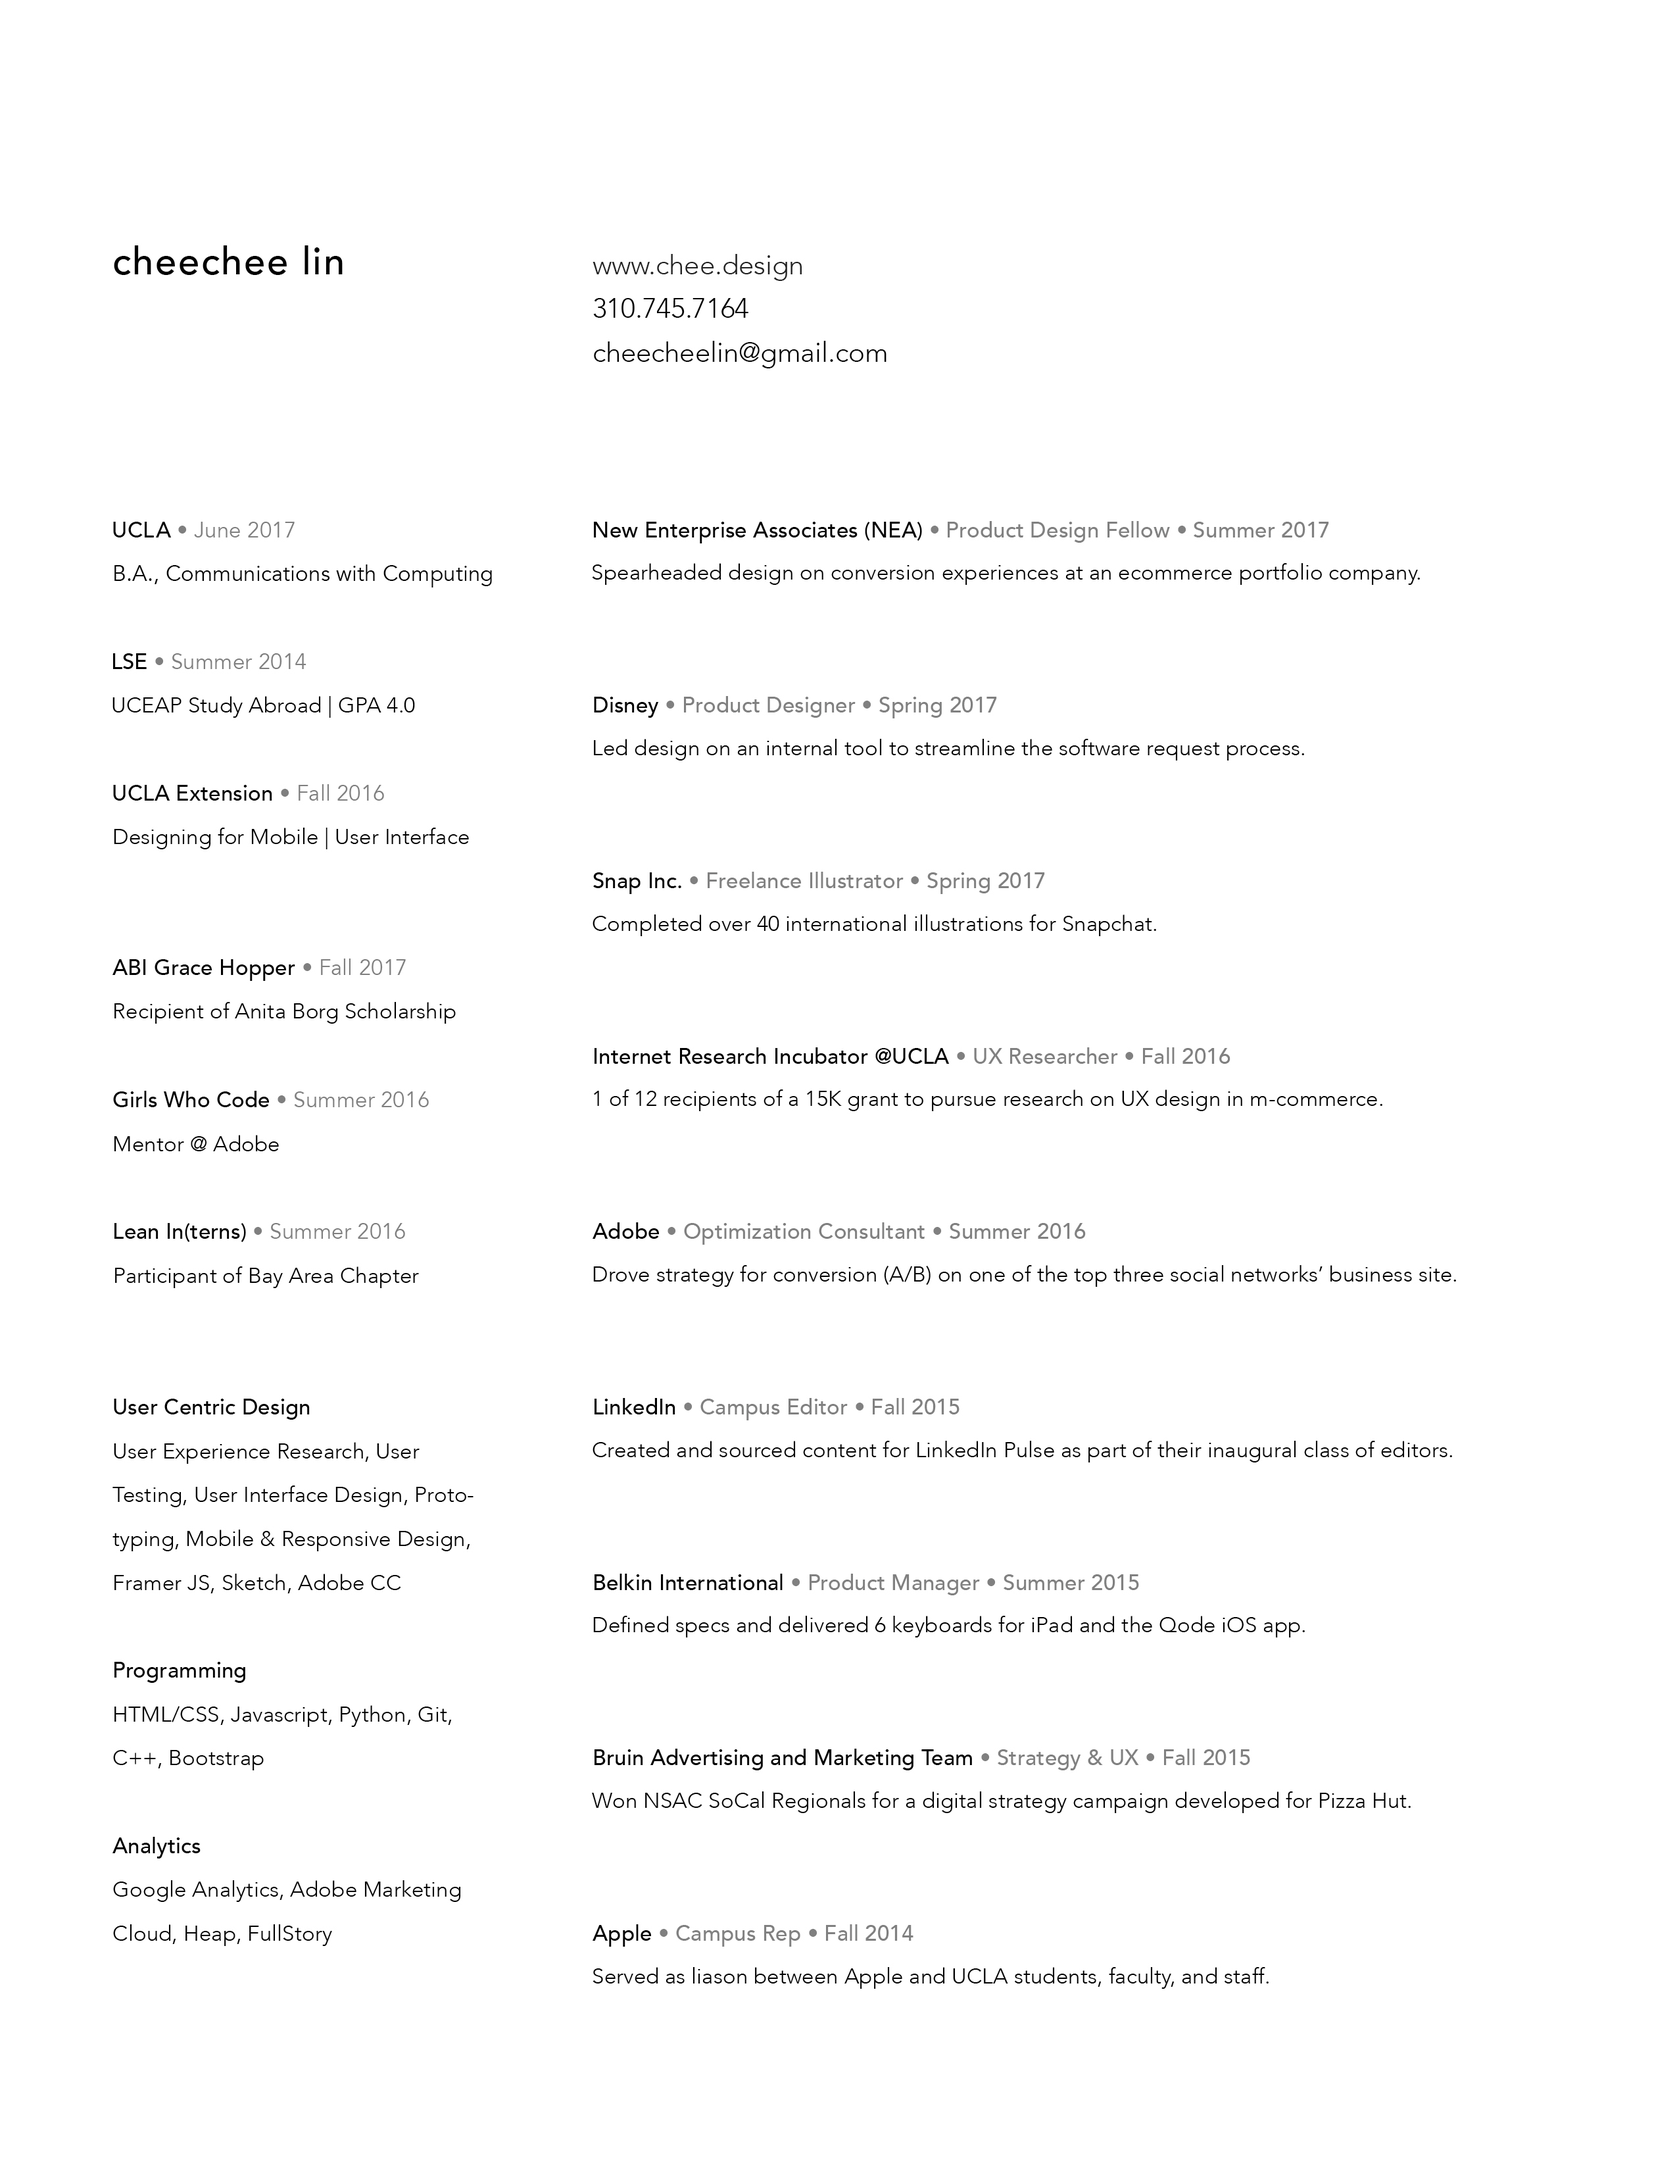
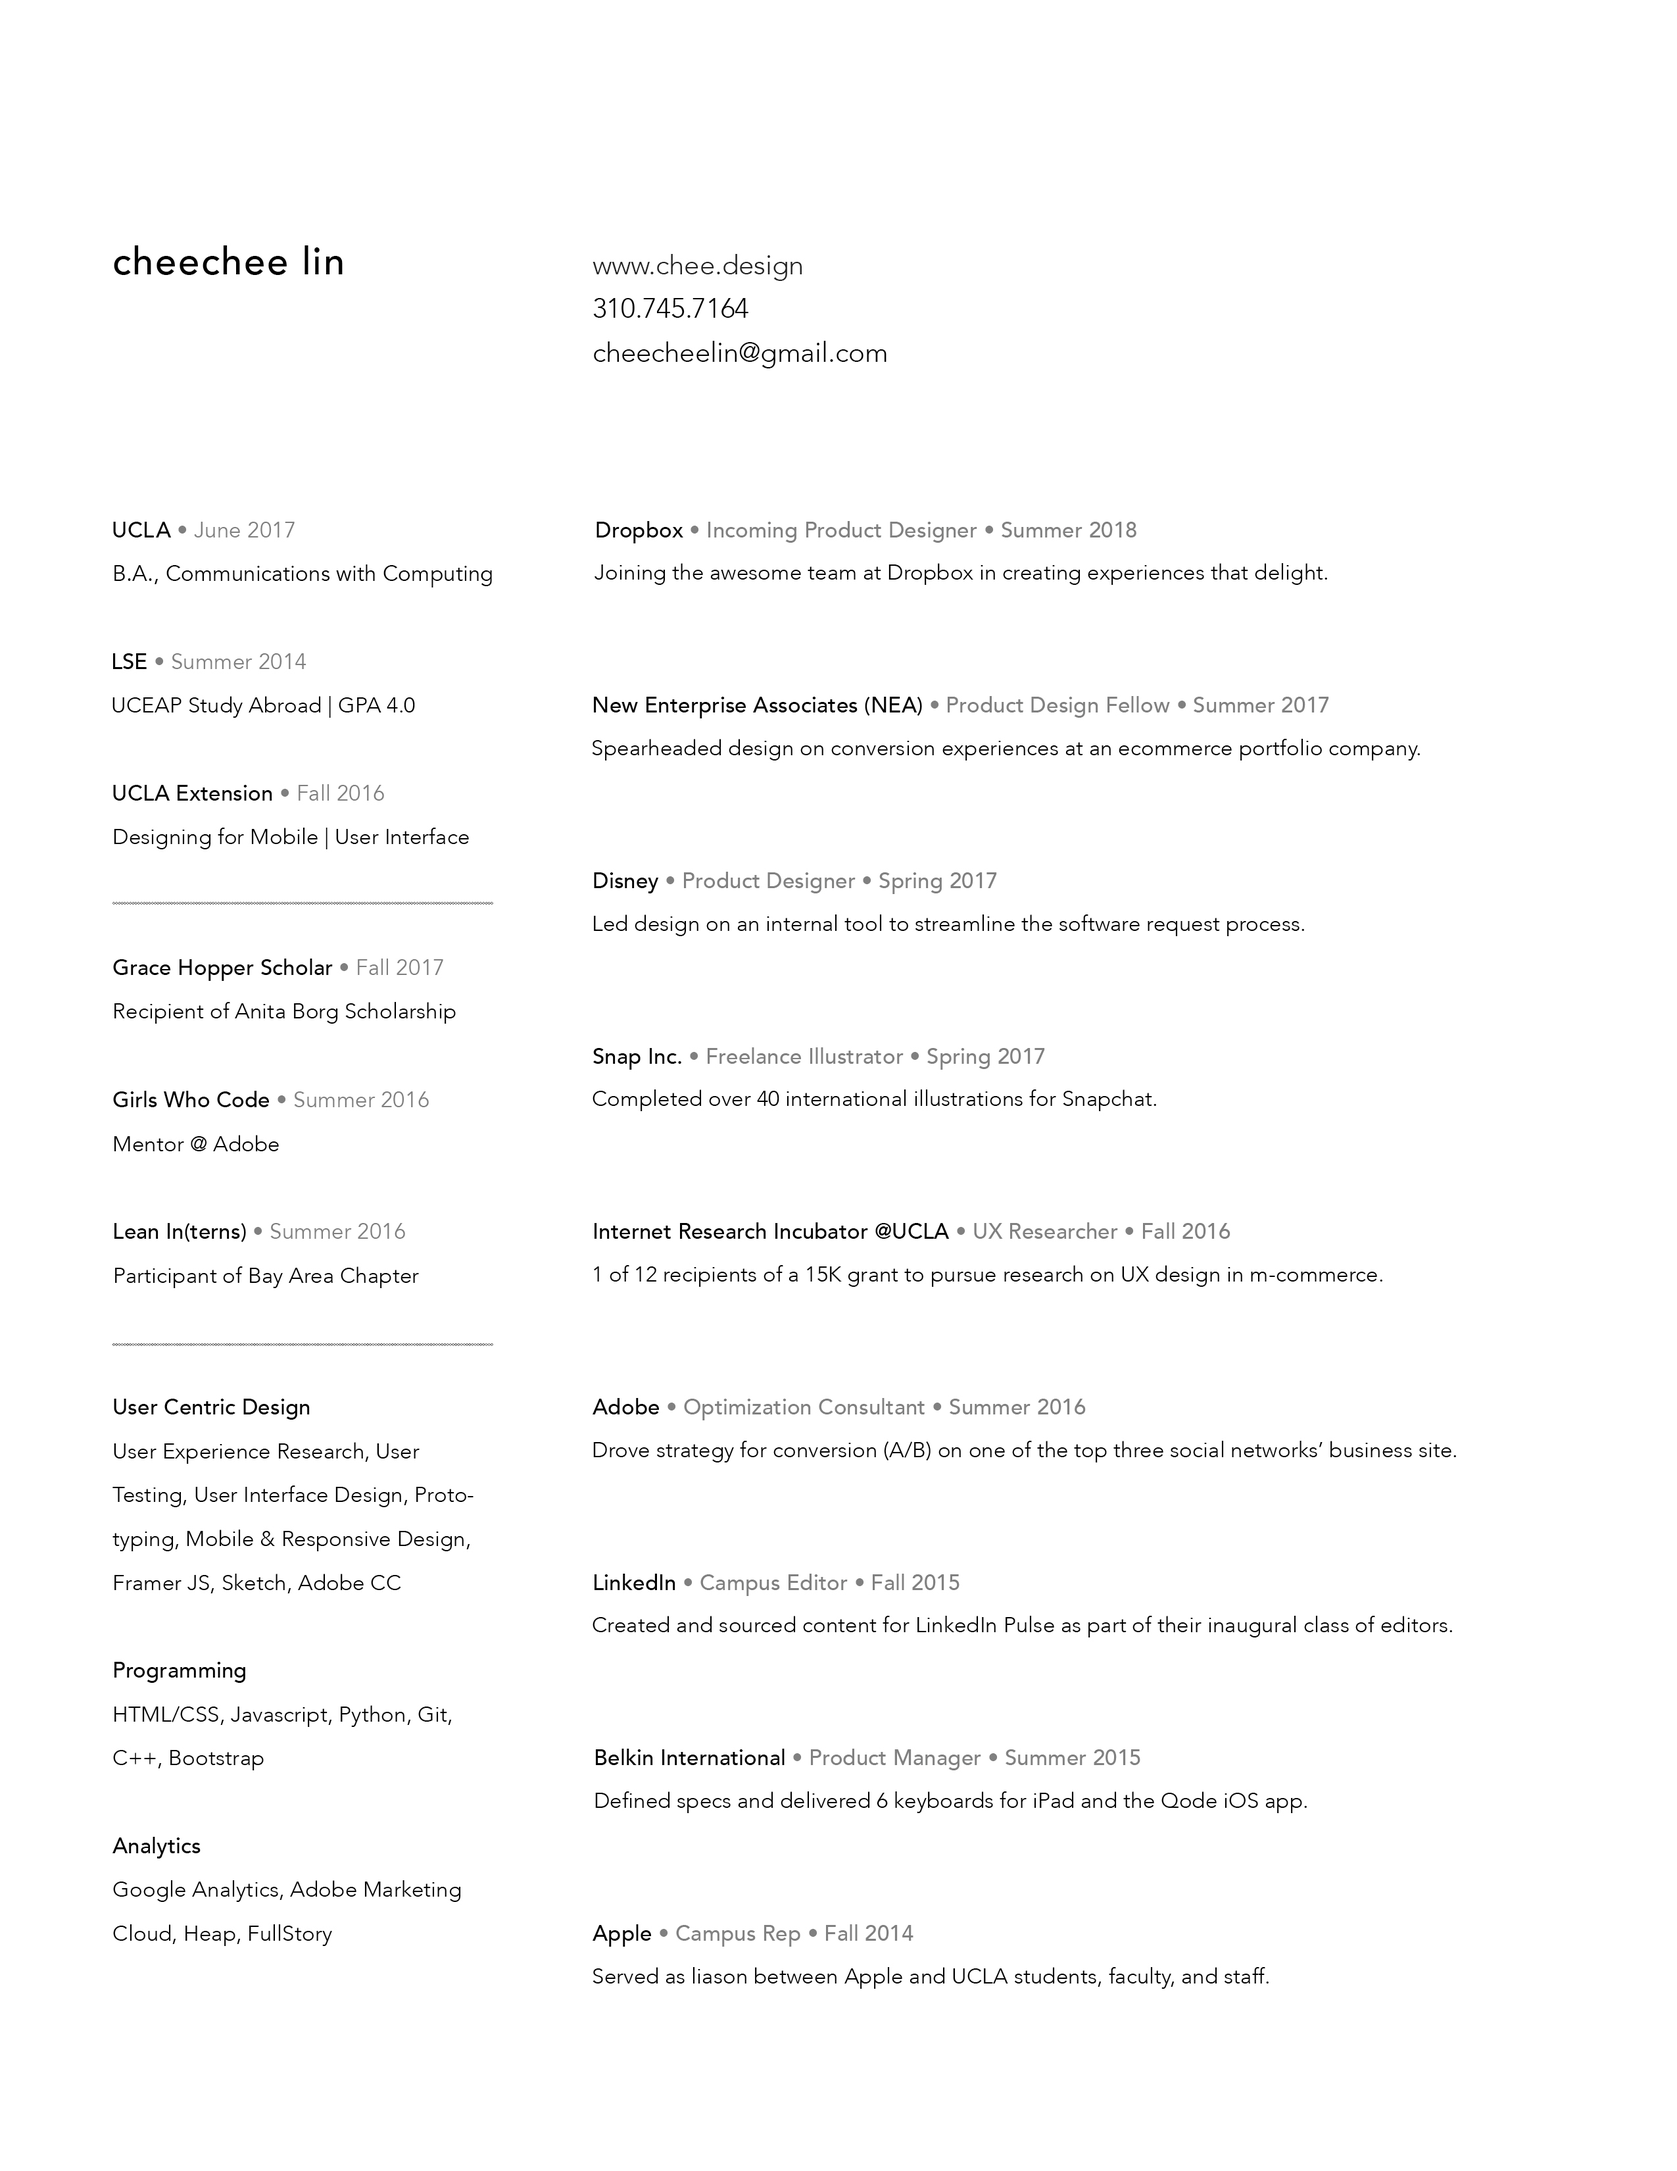
updating site for gap year

diff --git a/index.html b/index.html
@@ -128,7 +128,7 @@
 		</div>
 		<div id = "cheedescript" style="text-align: center;">
 		</br>
-		<h2>-- Product Designer, Globetrotter, and Avid Boba Drinker. I'm powered by milk tea and interesting challenges. </br></br>I've had the fortune to work with <a href="http://disney.com" target = ="_blank">@Disney</a>, <a href="http://adobe.com"target="_blank">@Adobe</a>, <a href="http://belkin.com" target="_blank">@Belkin</a>, <a href="http://snapchat.com">@Snapchat</a>, and <a href="http://linkedin.com/students" target="_blank">@LinkedIn</a> during my undergraduate career at UCLA. This summer, I'm shipping clean, user-first design as part of my <a href="http://designsummer.nea.com/" target="_blank"> NEA Design Fellowship</a> in SF.</br></br>I love working on interesting challenges and illustrate in my free time. Have an interesting project? Let's chat!</h2>
+		<h2>-- Product Designer, Globetrotter, and Avid Boba Drinker. I'm powered by milk tea and interesting challenges. </br></br>I'll be joining a fantastically awesome design team in the summer of 2018, but am available for freelance illustration/design opportunities! </br></br>I've worked with <a href="http://designsummer.nea.com" target = ="_blank">@NEA</a>, <a href="http://disney.com" target = ="_blank">@Disney</a>, <a href="http://adobe.com"target="_blank">@Adobe</a>, <a href="http://snapchat.com">@Snapchat</a>, <a href="http://apple.com">@Apple</a>, and <a href="http://linkedin.com/students" target="_blank">@LinkedIn</a>. </br></br> You can follow along with my gap year adventures <a href= "http://chee.ninja"> here!</a></h2>
 		<h2></br><a href="mailto:cheecheelin@gmail.com" class="button" target="_blank"> cheecheelin@gmail.com </a> </h2>
 	</div>
 </section>
@@ -213,7 +213,7 @@
 		<p class="tags"> Internship</p>
 		<p class="tags"> Summer 2017</p>
 	</br>
-	<p class="hpdescription"> I'm currently an NEA Design Fellow at one of their portfolio companies as their second UI/UX designer, where I'm working on a variety of experiences throughout the e-commerce funnel. These projects cannot be shared publicly until launch, but you can contact me to see the real pixels. Contact me directly to see my project for the summer. </p>
+	<p class="hpdescription"> This past summer, I was an NEA Design Fellow at one of their portfolio companies as their second UI/UX designer, where I worked on a variety of experiences throughout the e-commerce funnel. These projects cannot be shared publicly until launch, but you can contact me to see the real pixels. </p>
 	<p style = "margin: 0 auto; padding-top: 0"></br><a href="mailto:cheecheelin@gmail.com" class="button2"> Contact </a></p>
 	<!-- <a href="mailto:cheecheelin@gmail.com">
 	<img class="
@@ -271,6 +271,7 @@
 	</div>
 -->
 
+<!-- commenting out old projects
 	<div class="hpcontent">
 		<h6> Spoon | A Hypothetical PDP</h6>
 		<p class="tags"> UI/UX </p>
@@ -288,6 +289,8 @@
 	</a>
 	<hr class="projdivider">
 </div>
+
+-->
 <div class="hpcontent">
 	<h6> Houzz | Exploring Collaboration and 3D</h6>
 	<p class="tags"> UI/UX </p>
@@ -325,7 +328,8 @@
 	<hr class="projdivider">
 </div>
 
-<div class="hpcontent">
+<!-- commenting out old projects
+ <div class="hpcontent">
 	<h6> Save App | Price Comparison</h6>
 	<p class="tags"> UI/UX </p>
 	<p class="tags"> IxD</p>
@@ -340,6 +344,7 @@
 		<img width="50%" src="images/uxportfolio/saveapp/saveappcover.jpg">
 	</a>
 </div>
+-->
 
 </section>
 

diff --git a/about.html b/about.html
@@ -122,14 +122,12 @@
 				<div style="display: inline-block; text-align: left">
         </br></br>
           <h2> <i class="em em-wave"></i> Hi, nice to meet you! </h2></br>
-					<h2> <i class="em em-round_pushpin"></i> Current: San Francisco || Previous: San Jose, Taipei, London, Los Angeles </h2></br>
+					<h2> <i class="em em-round_pushpin"></i> Current: Italy, Egypt, UK || Previous: San Jose, Taipei, London, Los Angeles, San Francisco </h2></br>
       		<h2> <i class="em em-earth_americas"></i> I'm Cheechee - Silicon Valley born, Taiwan raised boba addict / product designer / energetic &amp; curious person. </h2></br>
-
-					<h2> <i class="em em-computer"></i> I discovered website builders as a freshman in college, and I've fallen in love with digital product design ever since (p.s. you are currently viewing v6 of my website).</p></br>
 
       		<h2> <i class="em em-pencil2"></i> Design, to me, is about solving problems. I'm absolutely invigorated by challenges that aim to tackle real world problems, and I believe in grounding design decisions in research + data.</h2></br>
 
-      		<h2> <i class="em em-airplane"></i> When I'm not at work, you can find me reviewing places on Yelp + adventuring in the great outdoors. Most recently, I was in Barcelona, Tokyo, Thailand, and Amsterdam.</h2></br>
+      		<h2> <i class="em em-airplane"></i> Due to a lucky delay in start date, I've been blessed with a gap year after graduating to travel the world, learn ceramics/yoga, and knock things off my bucket list. I'll be documenting my experiences along the way <a href= "http://www.chee.ninja">@www.chee.ninja</a>, feel free to follow along!</h2></br>
 
       		<h2> <i class="em em-dancers"></i> I'm always down to collaborate on interesting projects or meet new people. Drop me a line <a href="mailto:hello@chee.design">here</a> or <a target="blank" href="http://twitter.com/cheecheelin">tweet me</a>!</h2></br>
 

diff --git a/style.css b/style.css
@@ -81,7 +81,7 @@ h2{
   color: #1a1a1a;
   font-family: "Karla", sans-serif;
   font-size:16px;
-  max-width: 800px;
+  max-width: 820px;
   margin: 0 auto;
   text-align: center;
   line-height: 1.5em;
@@ -294,6 +294,7 @@ p{
 a{
   color: black;
   font-weight: bold;
+  text-decoration: underline;
 }
 
 a:hover {
